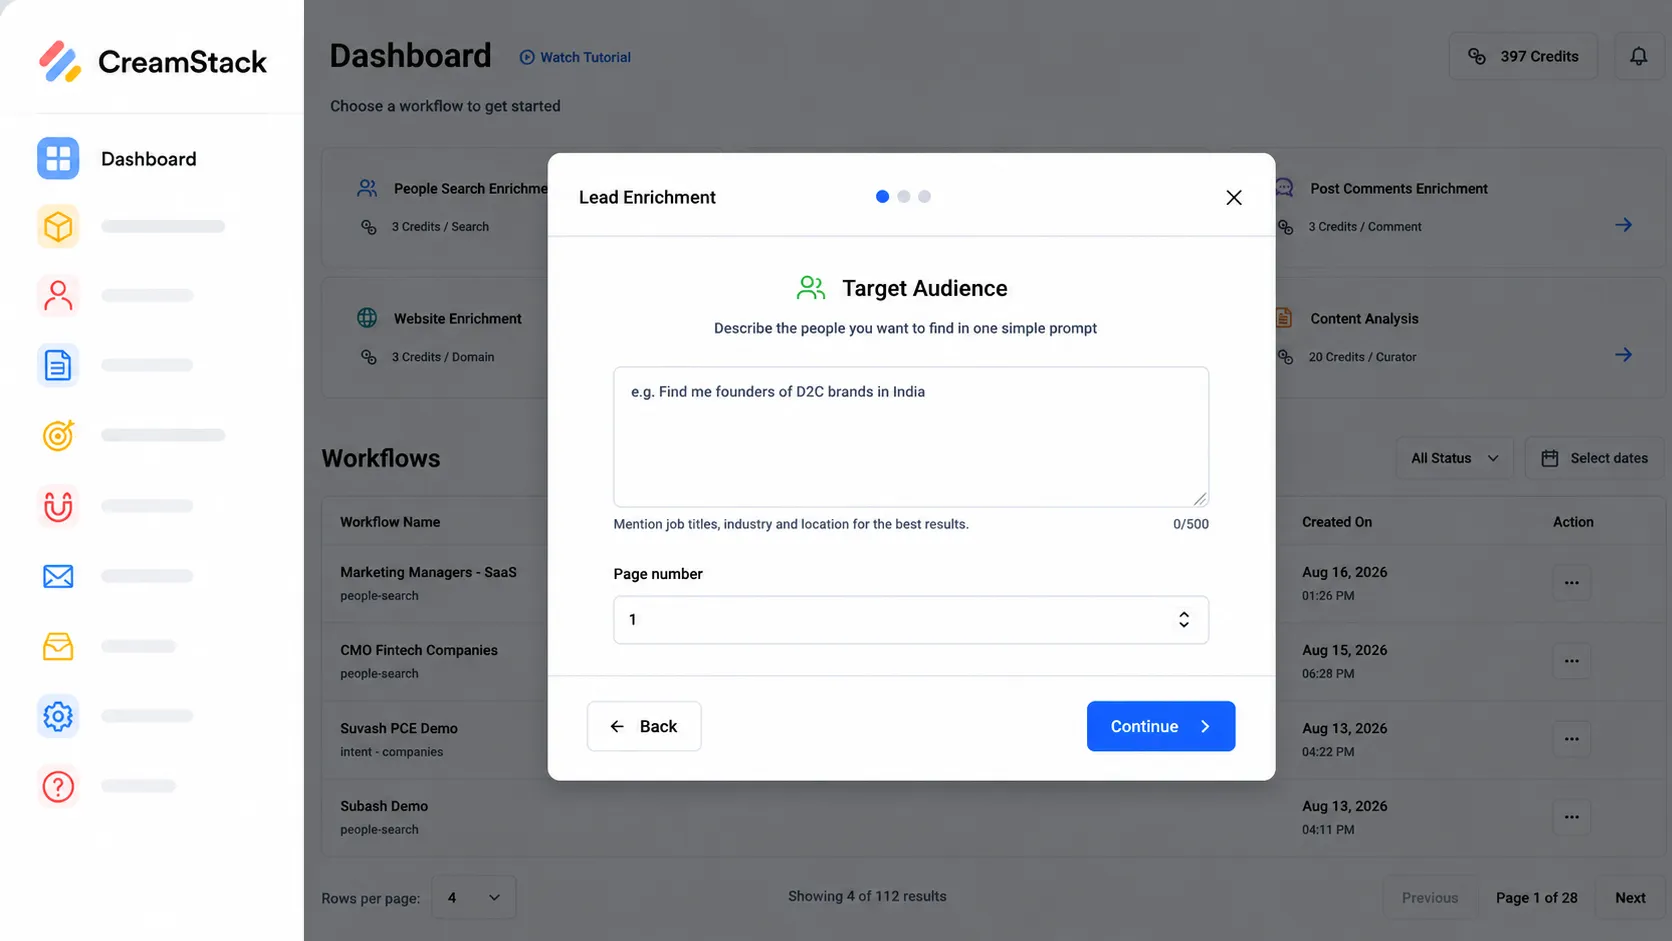
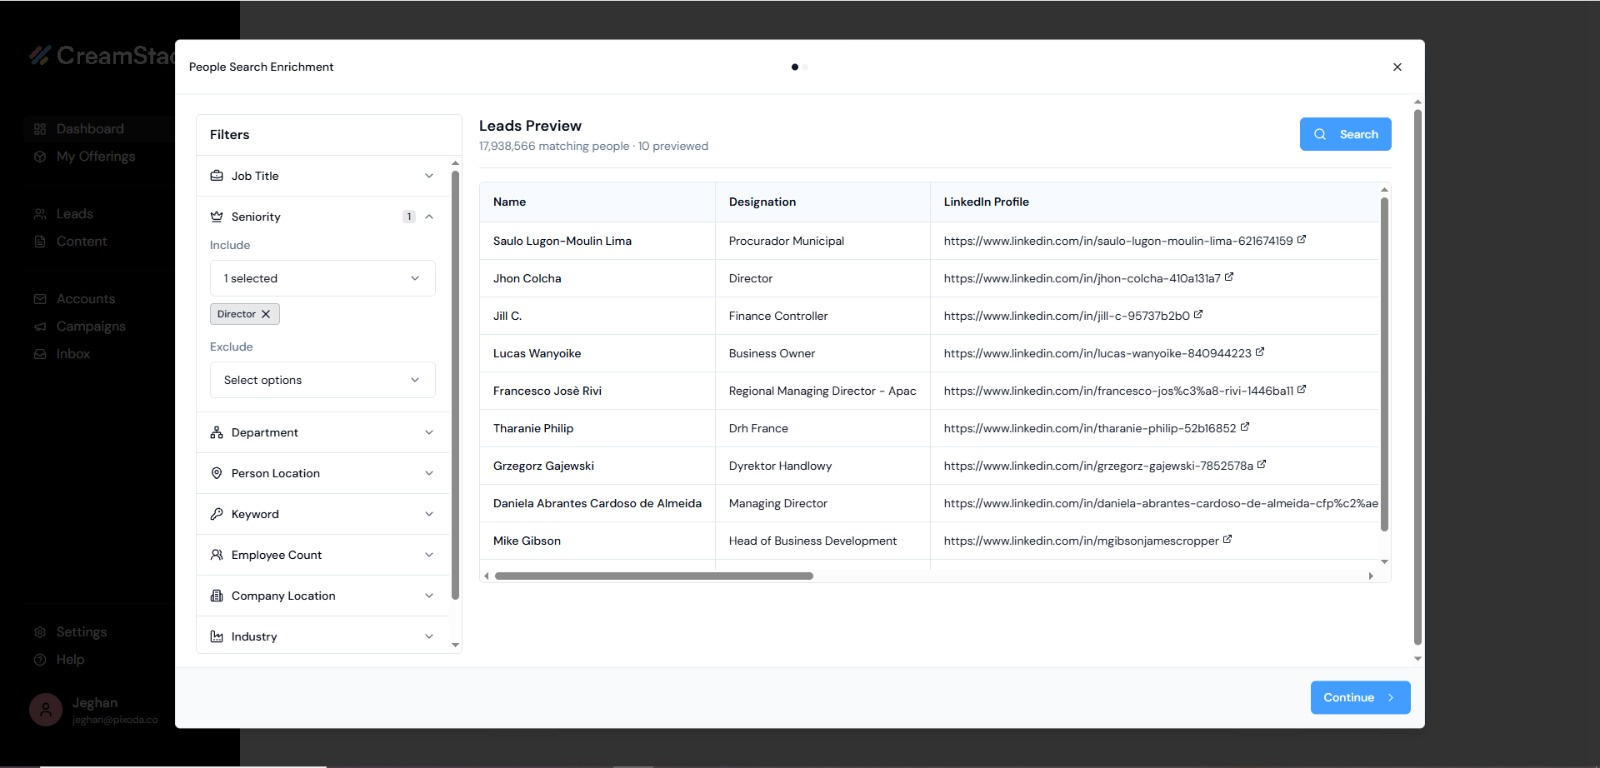
Update login and signup links to open in the same tab

diff --git a/src/components/PricingSection.jsx b/src/components/PricingSection.jsx
@@ -611,8 +611,6 @@ const PricingSection = ({ onNavigate }) => {
             {/* Main Action Button */}
             <a
               href="https://app.creamstack.io/signup"
-              target="_blank"
-              rel="noopener noreferrer"
               className={`w-full py-3.5 px-5 rounded-2xl font-extrabold text-sm transition-all duration-200 min-h-[48px] flex items-center justify-center gap-2 cursor-pointer shadow-md active:scale-[0.98] ${currentMobilePlan.btnStyle}`}
             >
               <span>{currentMobilePlan.btnText}</span>
@@ -785,8 +783,6 @@ const PricingSection = ({ onNavigate }) => {
                   <div className="mt-auto pt-6">
                     <a 
                       href="https://app.creamstack.io/signup"
-                      target="_blank"
-                      rel="noopener noreferrer"
                       className="w-full py-2.5 px-4 rounded-xl border-2 border-purple-200 text-purple-700 font-extrabold hover:bg-purple-600 hover:text-white hover:border-purple-600 transition-all duration-200 text-sm min-h-[44px] cursor-pointer flex items-center justify-center text-center inline-block"
                     >
                       Start Trial
@@ -813,8 +809,6 @@ const PricingSection = ({ onNavigate }) => {
                   <div className="mt-auto pt-6">
                     <a 
                       href="https://app.creamstack.io/signup"
-                      target="_blank"
-                      rel="noopener noreferrer"
                       className="w-full py-2.5 px-4 rounded-xl border-2 border-primary/40 text-primary font-extrabold hover:bg-primary hover:text-white hover:border-primary transition-all duration-200 text-sm min-h-[44px] cursor-pointer flex items-center justify-center text-center inline-block"
                     >
                       Choose Starter
@@ -837,8 +831,6 @@ const PricingSection = ({ onNavigate }) => {
                   <div className="mt-auto pt-6">
                     <a 
                       href="https://app.creamstack.io/signup"
-                      target="_blank"
-                      rel="noopener noreferrer"
                       className="w-full py-2.5 px-4 rounded-xl bg-primary text-white font-extrabold shadow-lg shadow-primary/25 hover:bg-primary-hover hover:-translate-y-0.5 transition-all duration-200 text-sm min-h-[44px] cursor-pointer flex items-center justify-center text-center inline-block"
                     >
                       Choose Growth
@@ -858,8 +850,6 @@ const PricingSection = ({ onNavigate }) => {
                   <div className="mt-auto pt-6">
                     <a 
                       href="https://app.creamstack.io/signup"
-                      target="_blank"
-                      rel="noopener noreferrer"
                       className="w-full py-2.5 px-4 rounded-xl border-2 border-emerald-500/40 text-emerald-600 font-extrabold hover:bg-emerald-600 hover:text-white hover:border-emerald-600 transition-all duration-200 text-sm min-h-[44px] cursor-pointer flex items-center justify-center text-center inline-block"
                     >
                       Choose Scale

diff --git a/src/components/Navbar.jsx b/src/components/Navbar.jsx
@@ -350,16 +350,12 @@ const Navbar = ({ currentPage = 'home', onNavigate }) => {
         <div className="hidden md:flex items-center gap-3">
           <a 
             href="https://app.creamstack.io/"
-            target="_blank"
-            rel="noopener noreferrer"
             className="bg-transparent text-secondary hover:text-primary border border-gray-300 px-5 py-2 rounded-lg hover:bg-gray-50 transition-colors font-semibold text-sm inline-block"
           >
             Log In
           </a>
           <a 
             href="https://app.creamstack.io/signup"
-            target="_blank"
-            rel="noopener noreferrer"
             className="bg-primary hover:bg-primary-hover text-white px-5 py-2 rounded-lg transition-colors font-semibold text-sm shadow-sm inline-block"
           >
             Sign Up
@@ -564,16 +560,12 @@ const Navbar = ({ currentPage = 'home', onNavigate }) => {
             <div className="flex flex-col gap-2 pt-1">
               <a 
                 href="https://app.creamstack.io/signup"
-                target="_blank"
-                rel="noopener noreferrer"
                 className="w-full py-3 min-h-[48px] rounded-2xl bg-primary hover:bg-primary-hover text-white font-extrabold text-[15px] shadow-md shadow-primary/20 transition-all flex items-center justify-center active:scale-98"
               >
                 Sign Up
               </a>
               <a 
                 href="https://app.creamstack.io/"
-                target="_blank"
-                rel="noopener noreferrer"
                 className="w-full py-3 min-h-[48px] rounded-2xl border border-slate-200 text-slate-700 hover:bg-slate-50 font-bold text-sm transition-all flex items-center justify-center"
               >
                 Sign In to Platform
